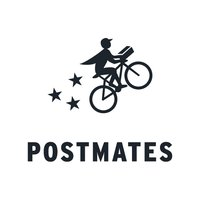
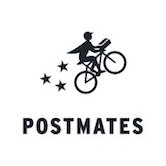
Resize

diff --git a/frontend/index.html b/frontend/index.html
@@ -70,7 +70,7 @@
 					</section>
 
 					<section class="spotlight">
-						<div class="image"><img src="images/postmates.jpg" rotate="90" alt="" /></div>
+						<div class="image"><img src="images/postmates.jpg" alt="" /></div>
 						<div class="content">
 							<h3>Hungry? How about some Postmates!</h3>
 							<p>"Get Fat Sal's On-Demand"</p>
